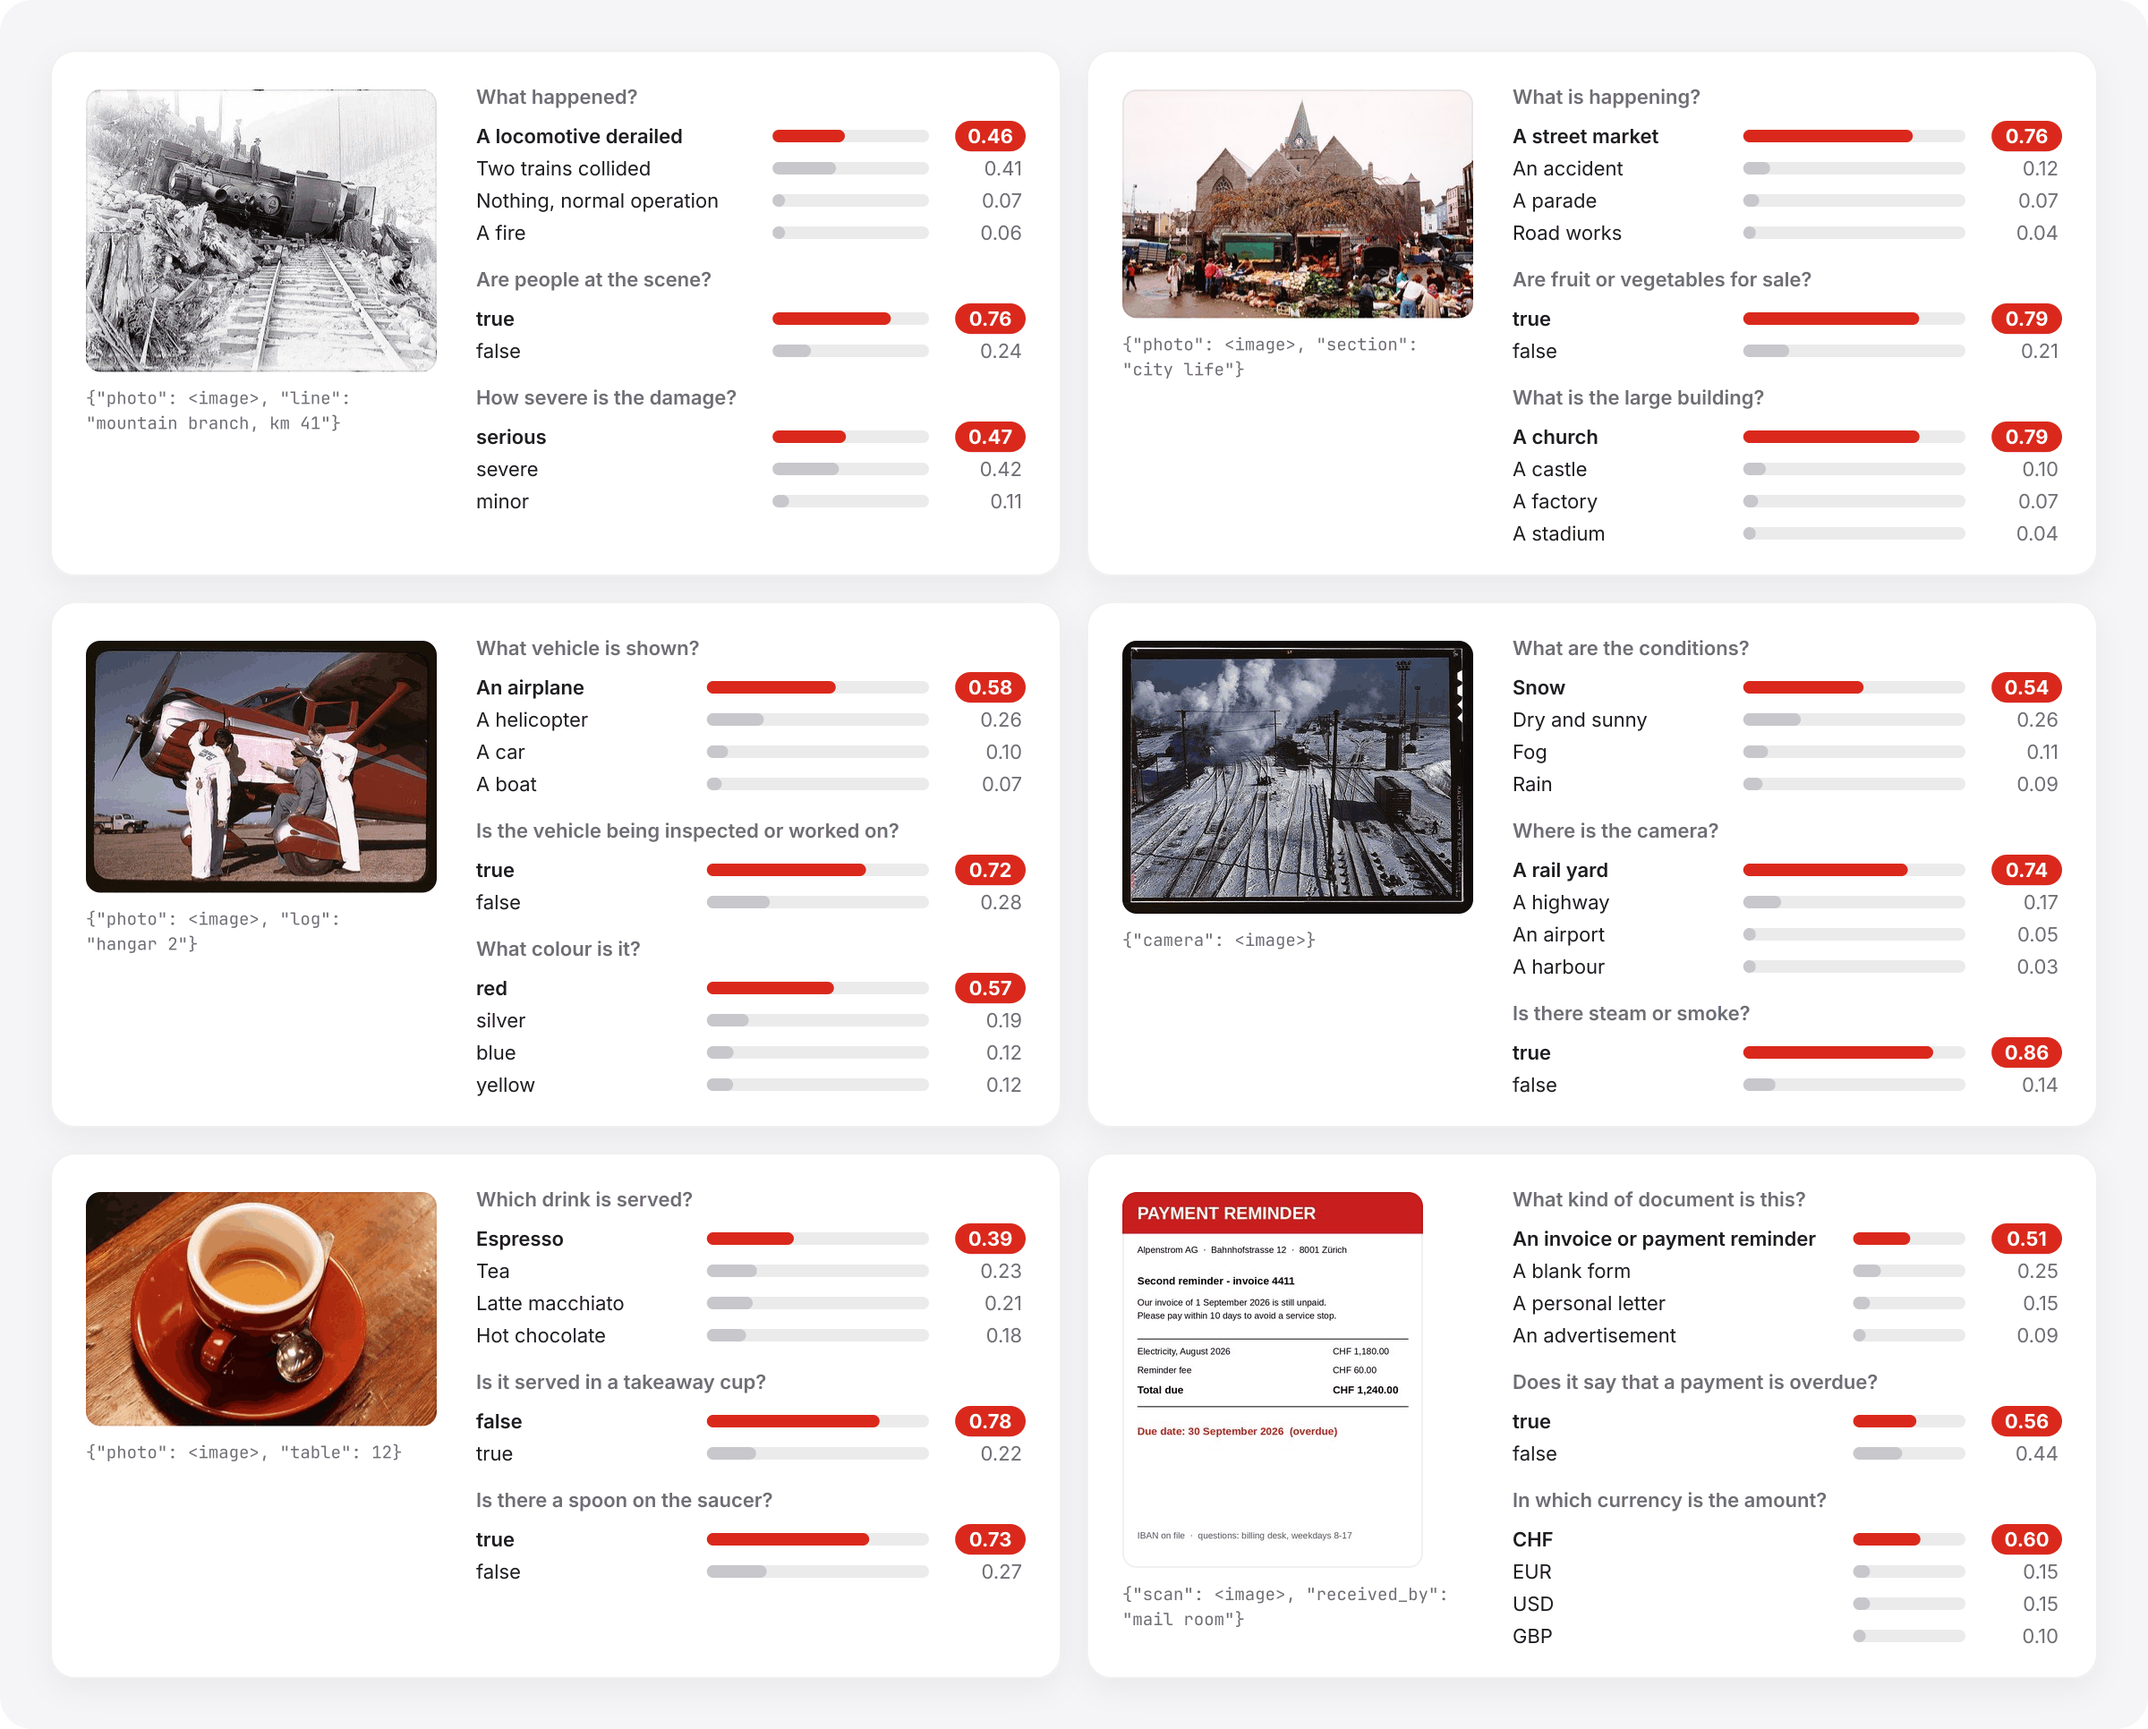
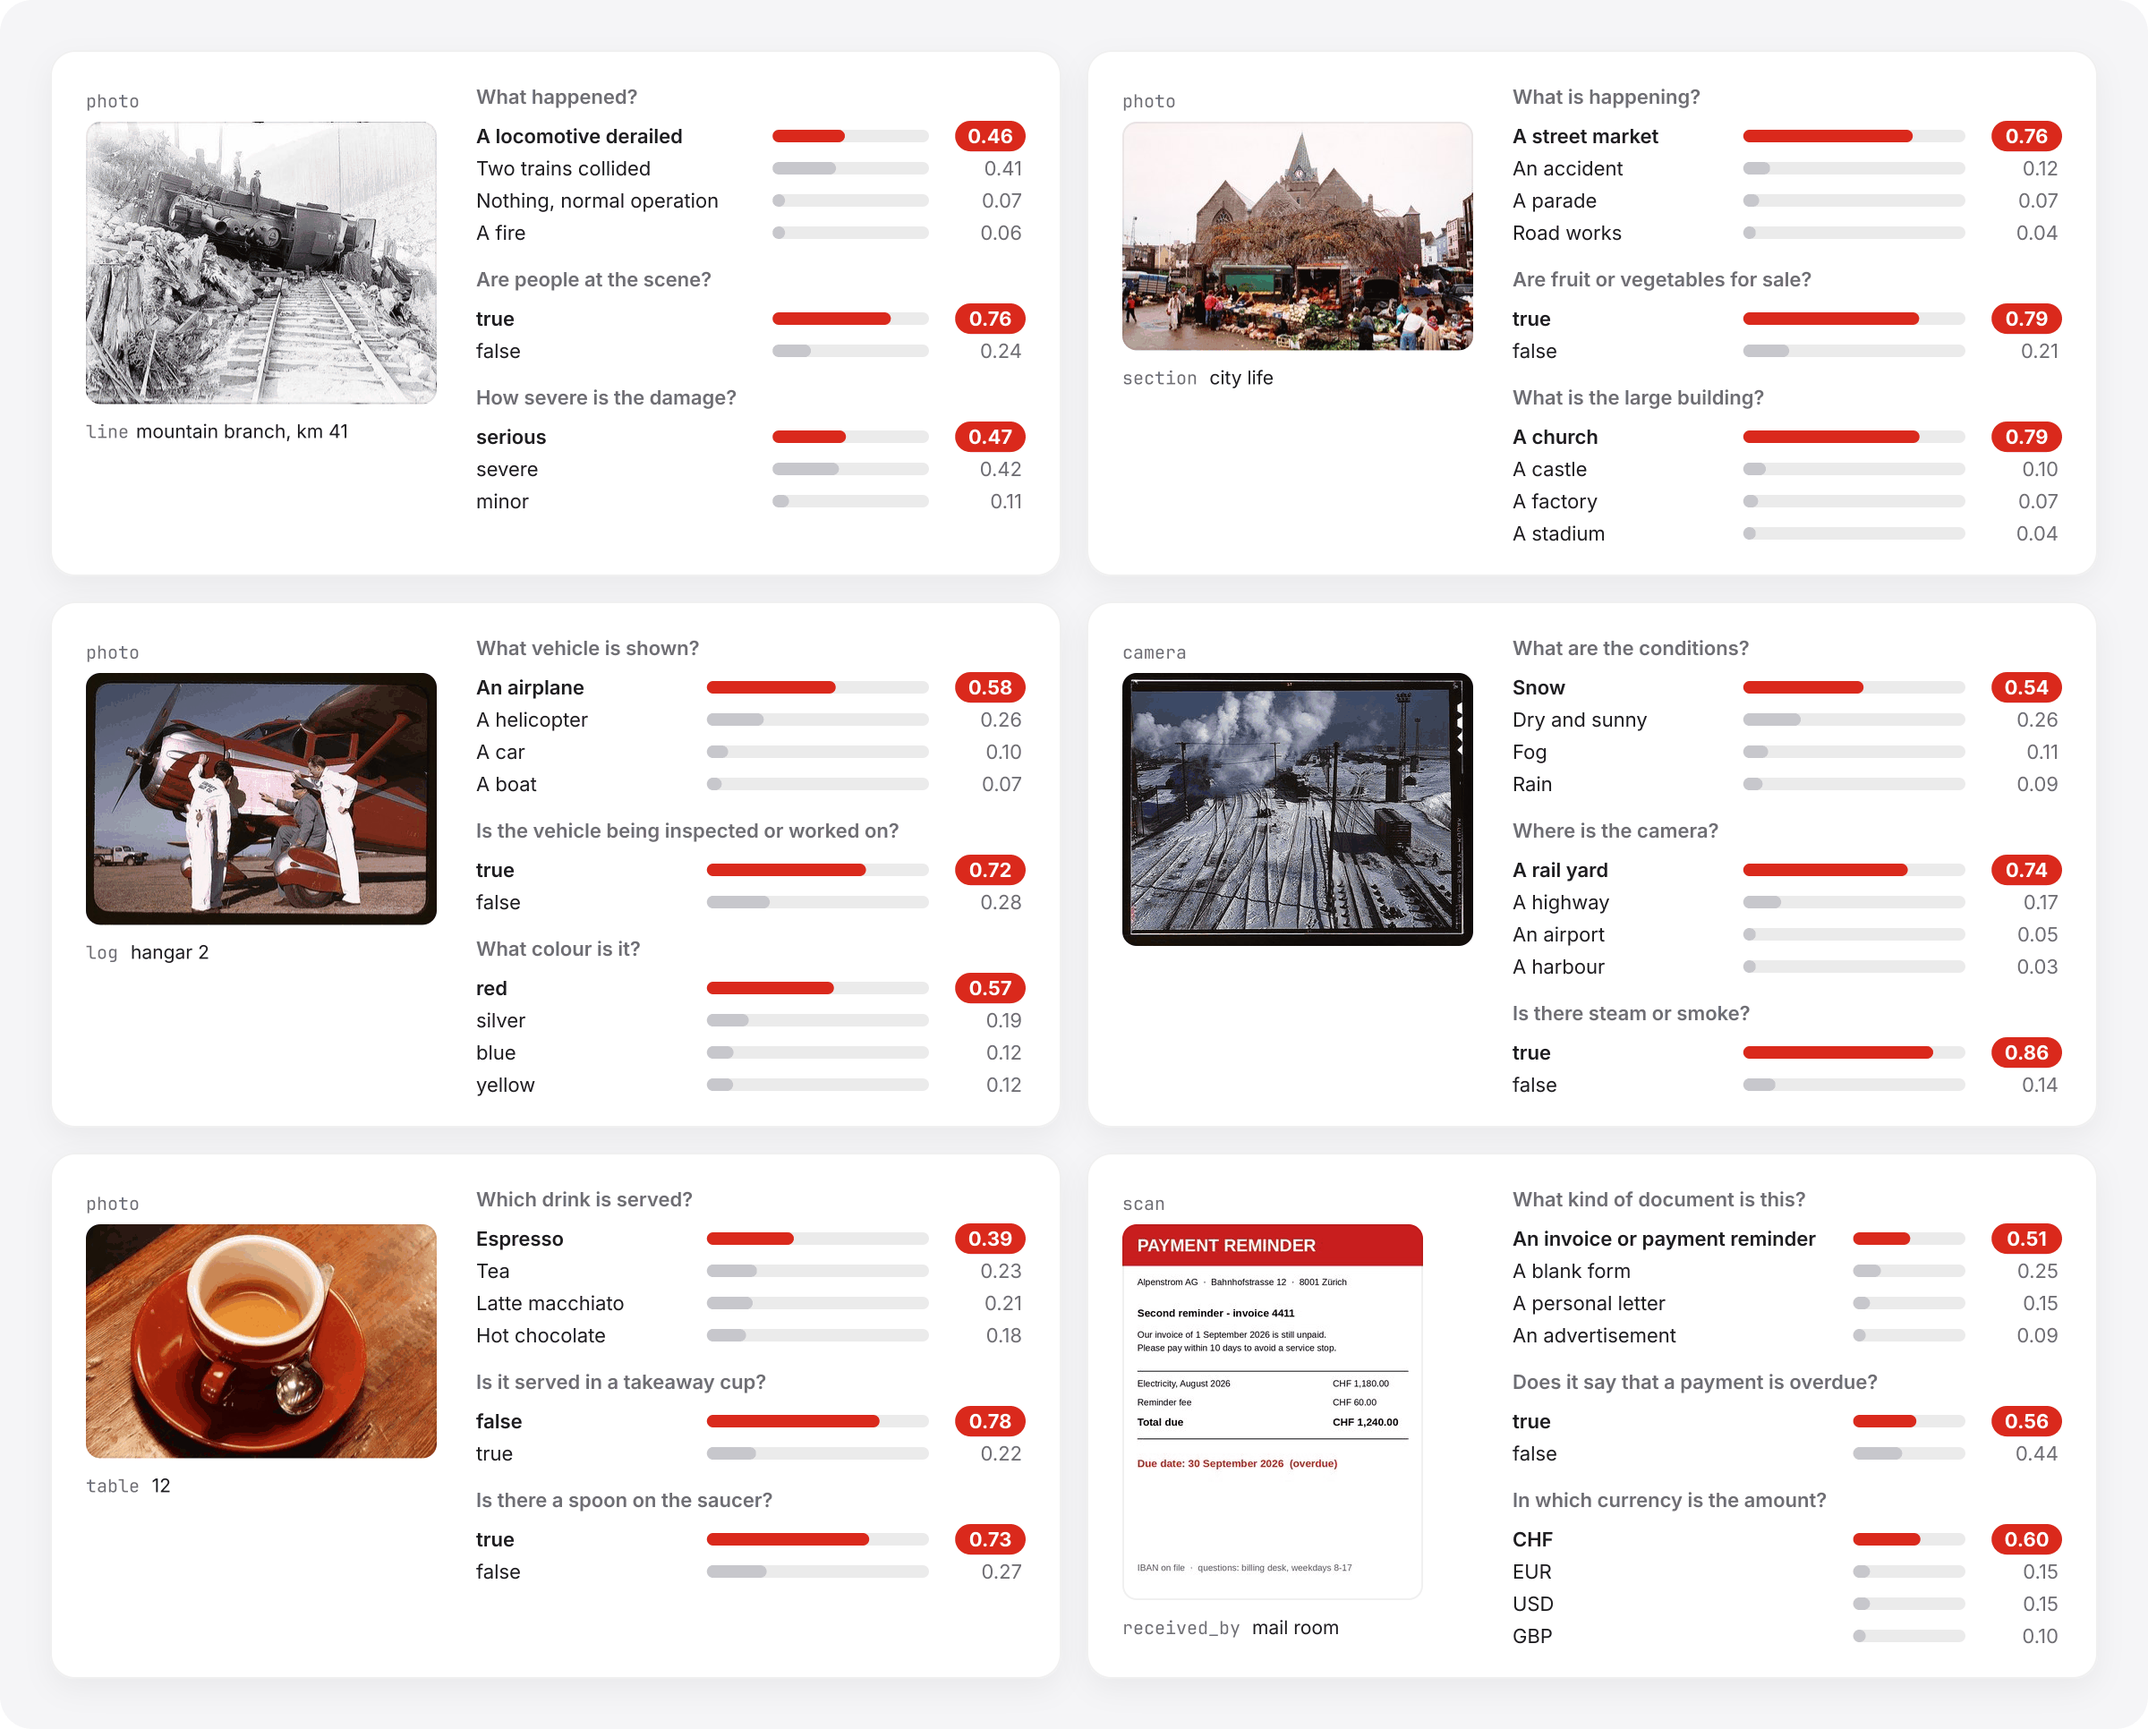
Figures: image examples name the image field and list the other fields as plain lines

diff --git a/scripts/make_assets.py b/scripts/make_assets.py
@@ -385,14 +385,20 @@ def vx_card(x, y, w, k, title, req, ans, h_min=0):
     b = []
     src = next(v["image"] for v in req["state"].values() if isinstance(v, dict) and "image" in v)
     uri, dw, dh = thumb(FIX / src, IMG_W, 210)
-    ix, iy = x + 20, y + 22
+    ix, iy = x + 20, y + 40                                           # room for the field name above the image
     b.append(f'<clipPath id="vc{k}"><rect x="{ix:.1f}" y="{iy:.1f}" width="{dw:.1f}" height="{dh:.1f}" rx="8"/></clipPath>'
              f'<image href="{uri}" x="{ix:.1f}" y="{iy:.1f}" width="{dw:.1f}" height="{dh:.1f}" clip-path="url(#vc{k})" preserveAspectRatio="none"/>'
              f'<rect x="{ix + .5:.1f}" y="{iy + .5:.1f}" width="{dw - 1:.1f}" height="{dh - 1:.1f}" rx="7.5" fill="none" stroke="{EDGE}"/>')
-    rest = json.dumps({kk: ("@IMG@" if isinstance(v, dict) and "image" in v else v) for kk, v in req["state"].items()}, ensure_ascii=False)
-    yy = iy + dh + 4
-    for ln in wrap(rest.replace('"@IMG@"', "<image>"), 32):
-        yy += 14; b.append(T(ix, yy, ln, 9.5, MUTED, 400, extra=f'font-family="{MONO}"'))
+    ikey = next(kk for kk, v in req["state"].items() if isinstance(v, dict) and "image" in v)   # the image's field, above it
+    b.append(T(ix, iy - 8, ikey, 10, MUTED, 400, extra=f'font-family="{MONO}"'))
+    yy = iy + dh + 4                                                   # the other fields below it, one "key value" line each
+    for kk, v in req["state"].items():
+        if kk == ikey: continue
+        val = v if isinstance(v, str) else json.dumps(v, ensure_ascii=False)
+        for j, ln in enumerate(wrap(val, 30)):
+            yy += 15
+            if j == 0: b.append(T(ix, yy, kk, 10, MUTED, 400, extra=f'font-family="{MONO}"'))
+            b.append(T(ix + textw(kk, 10) * 1.1 + 10, yy, ln, 10.5, INK, 400))
     qx = ix + IMG_W + 22; qw = x + w - 20 - qx; yq = y + 22
     longest = max(textw(t, 11) for q in req["questions"].values() for t in option_labels(q).values())
     lab = min(0.62, max(0.42, (longest * 1.12 + 18) / qw))      # one label column per card, wide enough for its longest label
